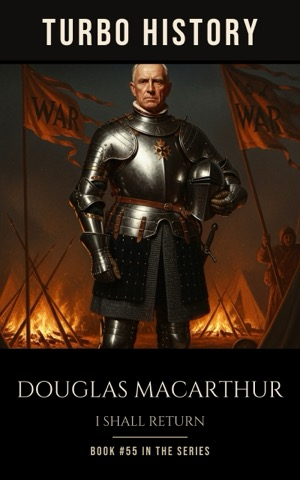
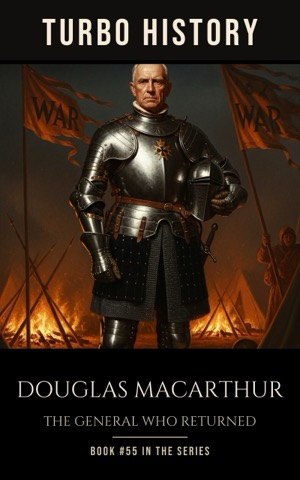
Rebuild site: refresh covers, sitemap, privacy date

Changed region(s): [[0.15, 0.8438, 0.84, 0.9062]]

diff --git a/site/privacy/index.html b/site/privacy/index.html
@@ -520,7 +520,7 @@ footer .links a{display:inline-block;padding:6px 2px}
   </div>
 </header>
 <section class="wrap"><div class="blurb">
-<p class="lede note">Last updated: 15 August 2026. Short version: we run Google Analytics to see which
+<p class="lede note">Last updated: 16 August 2026. Short version: we run Google Analytics to see which
 books people are interested in, and if you give us your email we use it to tell you when
 books are free. We do not sell anything to anyone, ever.</p>
 
